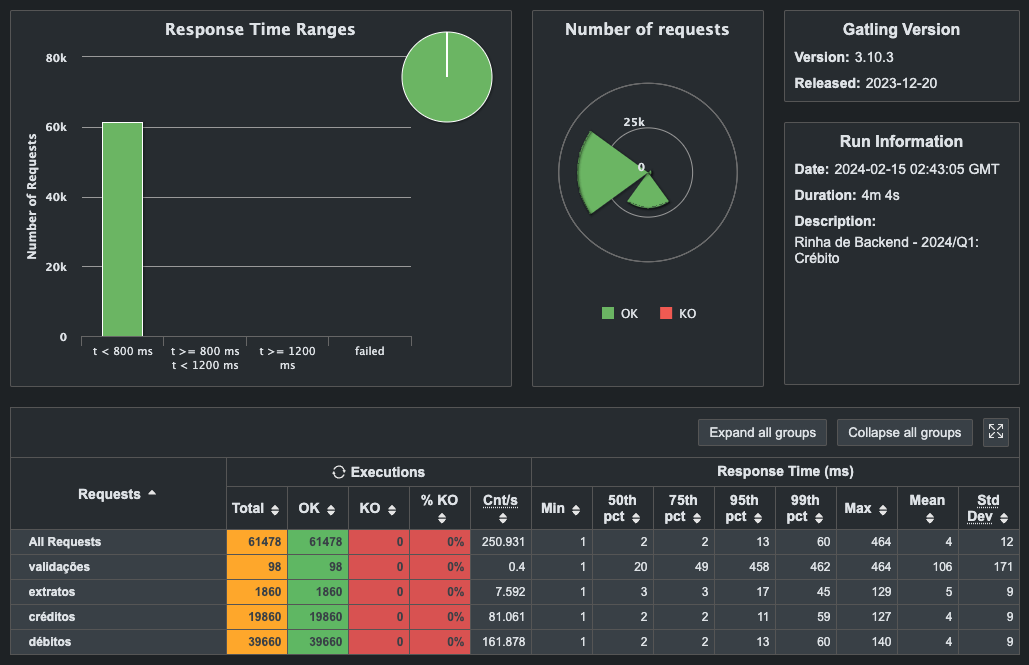
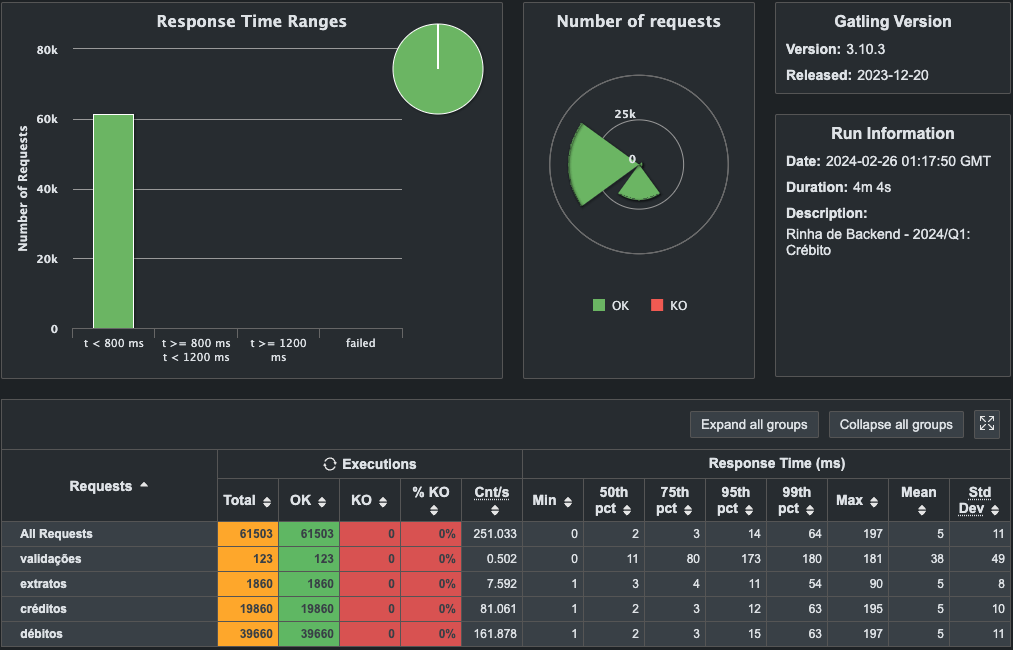
chore: clean configs and delete lock table

diff --git a/src/pkg/database/unitofwork.go b/src/pkg/database/unitofwork.go
@@ -4,8 +4,6 @@ import (
 	"context"
 	"database/sql"
 	"errors"
-	"fmt"
-	"strings"
 )
 
 var (
@@ -18,12 +16,9 @@ var (
 
 type Worker interface {
 	BeginTransaction(ctx context.Context, opts *sql.TxOptions) error
-	BeginLockTransaction(ctx context.Context, tables ...string) error
 	CommitOrRollback() error
 	Rollback() error
-	Lock(ctx context.Context, tables ...string) error
 	GetTx() *sql.Tx
-	DoLock(ctx context.Context, fn func(uow Worker) error, tables ...string) error
 	Do(ctx context.Context, fn func(uow Worker) error) error
 }
 
@@ -48,35 +43,6 @@ func (u *UnitOfWork) BeginTransaction(ctx context.Context, opts *sql.TxOptions) 
 		return err
 	}
 	u.tx = tx
-
-	return nil
-}
-
-func (u *UnitOfWork) BeginLockTransaction(ctx context.Context, tables ...string) error {
-	err := u.BeginTransaction(ctx, nil)
-	if err != nil {
-		return err
-	}
-
-	err = u.Lock(ctx, tables...)
-	if err != nil {
-		return err
-	}
-
-	return nil
-}
-
-func (u *UnitOfWork) Lock(ctx context.Context, tables ...string) error {
-	if u.tx == nil {
-		return ErrTransactionNotStarted
-	}
-
-	q := fmt.Sprintf("LOCK TABLE %s", strings.Join(tables, ", "))
-
-	_, err := u.tx.ExecContext(ctx, q)
-	if err != nil {
-		return errors.Join(err, ErrLockTablesFailed)
-	}
 
 	return nil
 }
@@ -119,27 +85,6 @@ func (u *UnitOfWork) Rollback() error {
 
 func (u *UnitOfWork) GetTx() *sql.Tx {
 	return u.tx
-}
-
-func (u *UnitOfWork) DoLock(ctx context.Context, fn func(uow Worker) error, tables ...string) error {
-	err := u.BeginLockTransaction(ctx, tables...)
-	if err != nil {
-		return err
-	}
-
-	err = fn(u)
-
-	if err != nil {
-		errRollback := u.Rollback()
-
-		if errRollback != nil {
-			return errors.Join(err, ErrTransactionNotRolledBack)
-		}
-
-		return err
-	}
-
-	return u.CommitOrRollback()
 }
 
 func (u *UnitOfWork) Do(ctx context.Context, fn func(uow Worker) error) error {

diff --git a/src/internal/usercases/transaction.usercase.go b/src/internal/usercases/transaction.usercase.go
@@ -87,16 +87,13 @@ func (u *TransactionUsercase) Execute(ctx context.Context, request requests.Regi
 }
 
 func (u *TransactionUsercase) processTransaction(client entities.ClientEntity, request requests.RegisterTransactionRequestDto) (*entities.ClientEntity, *entities.TransactionEntity, error) {
-	var transactionType domains.TransactionType
 
 	switch domains.TransactionType(request.Type) {
 	case domains.CreditTransaction:
 		client.Amount += domains.MoneyCents(request.Value)
-		transactionType = domains.CreditTransaction
 
 	case domains.DebitTransaction:
 		client.Amount -= domains.MoneyCents(request.Value)
-		transactionType = domains.DebitTransaction
 		isInsufficientBalance := client.Amount < client.Limit*-1
 
 		if isInsufficientBalance {
@@ -108,7 +105,7 @@ func (u *TransactionUsercase) processTransaction(client entities.ClientEntity, r
 		0,
 		client.ID,
 		domains.MoneyCents(request.Value),
-		transactionType,
+		domains.TransactionType(request.Type),
 		request.Description,
 		u.transactionTime(),
 	)

diff --git a/src/cmd/api/main.go b/src/cmd/api/main.go
@@ -22,7 +22,10 @@ func main() {
 			"application_name": rinhaConfig.Database.Application,
 		},
 	)
-	dataBase := database.NewPostgresDatabase(connectionString, database.ConfigDatabaseFunc(func(db *sql.DB) {}))
+	dataBase := database.NewPostgresDatabase(connectionString, database.ConfigDatabaseFunc(func(db *sql.DB) {
+		db.SetMaxOpenConns(10)
+		db.SetMaxIdleConns(10)
+	}))
 
 	httpserver_gin.NewHttpServer(rinhaConfig, func(app *gin.Engine) {
 		httpserver_gin.NewClientGroup(app, dataBase, rinhaConfig)

diff --git a/src/adapters/httpserver/gin/server.go b/src/adapters/httpserver/gin/server.go
@@ -24,7 +24,7 @@ func NewHttpServer(config *config.RinhaBackendConfig, fn GroupFunc) {
 	}
 
 	app.Use(gin.Recovery())
-	app.Use(gzip.Gzip(gzip.DefaultCompression))
+	app.Use(gzip.Gzip(gzip.BestCompression))
 
 	fn(app)
 

diff --git a/src/adapters/data/repositories/client.repository.go b/src/adapters/data/repositories/client.repository.go
@@ -38,7 +38,7 @@ func (r *ClientRepository) Get(ctx context.Context, id domains.ID, lock bool) (*
 	`
 
 	if lock {
-		query += " FOR UPDATE"
+		query += " FOR UPDATE;"
 	}
 
 	var client entities.ClientEntity

diff --git a/README.md b/README.md
@@ -11,7 +11,9 @@ Rinha de Backend, Segunda Edição: 2024/Q1 - Controle de Concorrência
 Submissão feita com:
 - `haproxy` como load balancer
 - `postgres` como banco de dados
-- `golang 1.21.5` para api com as libs `pgx` e `echo`
+- `golang 1.21.5` para api com as libs `pgx` e `gin`
+- CPU: 1.0
+- Memória: 150MB
 - [repositório da api](https://github.com/hhendrikk/rinha-backend-2024-golang)
 
 [@hendrikaraujo](https://twitter.com/hendrikaraujo) @ twitter
